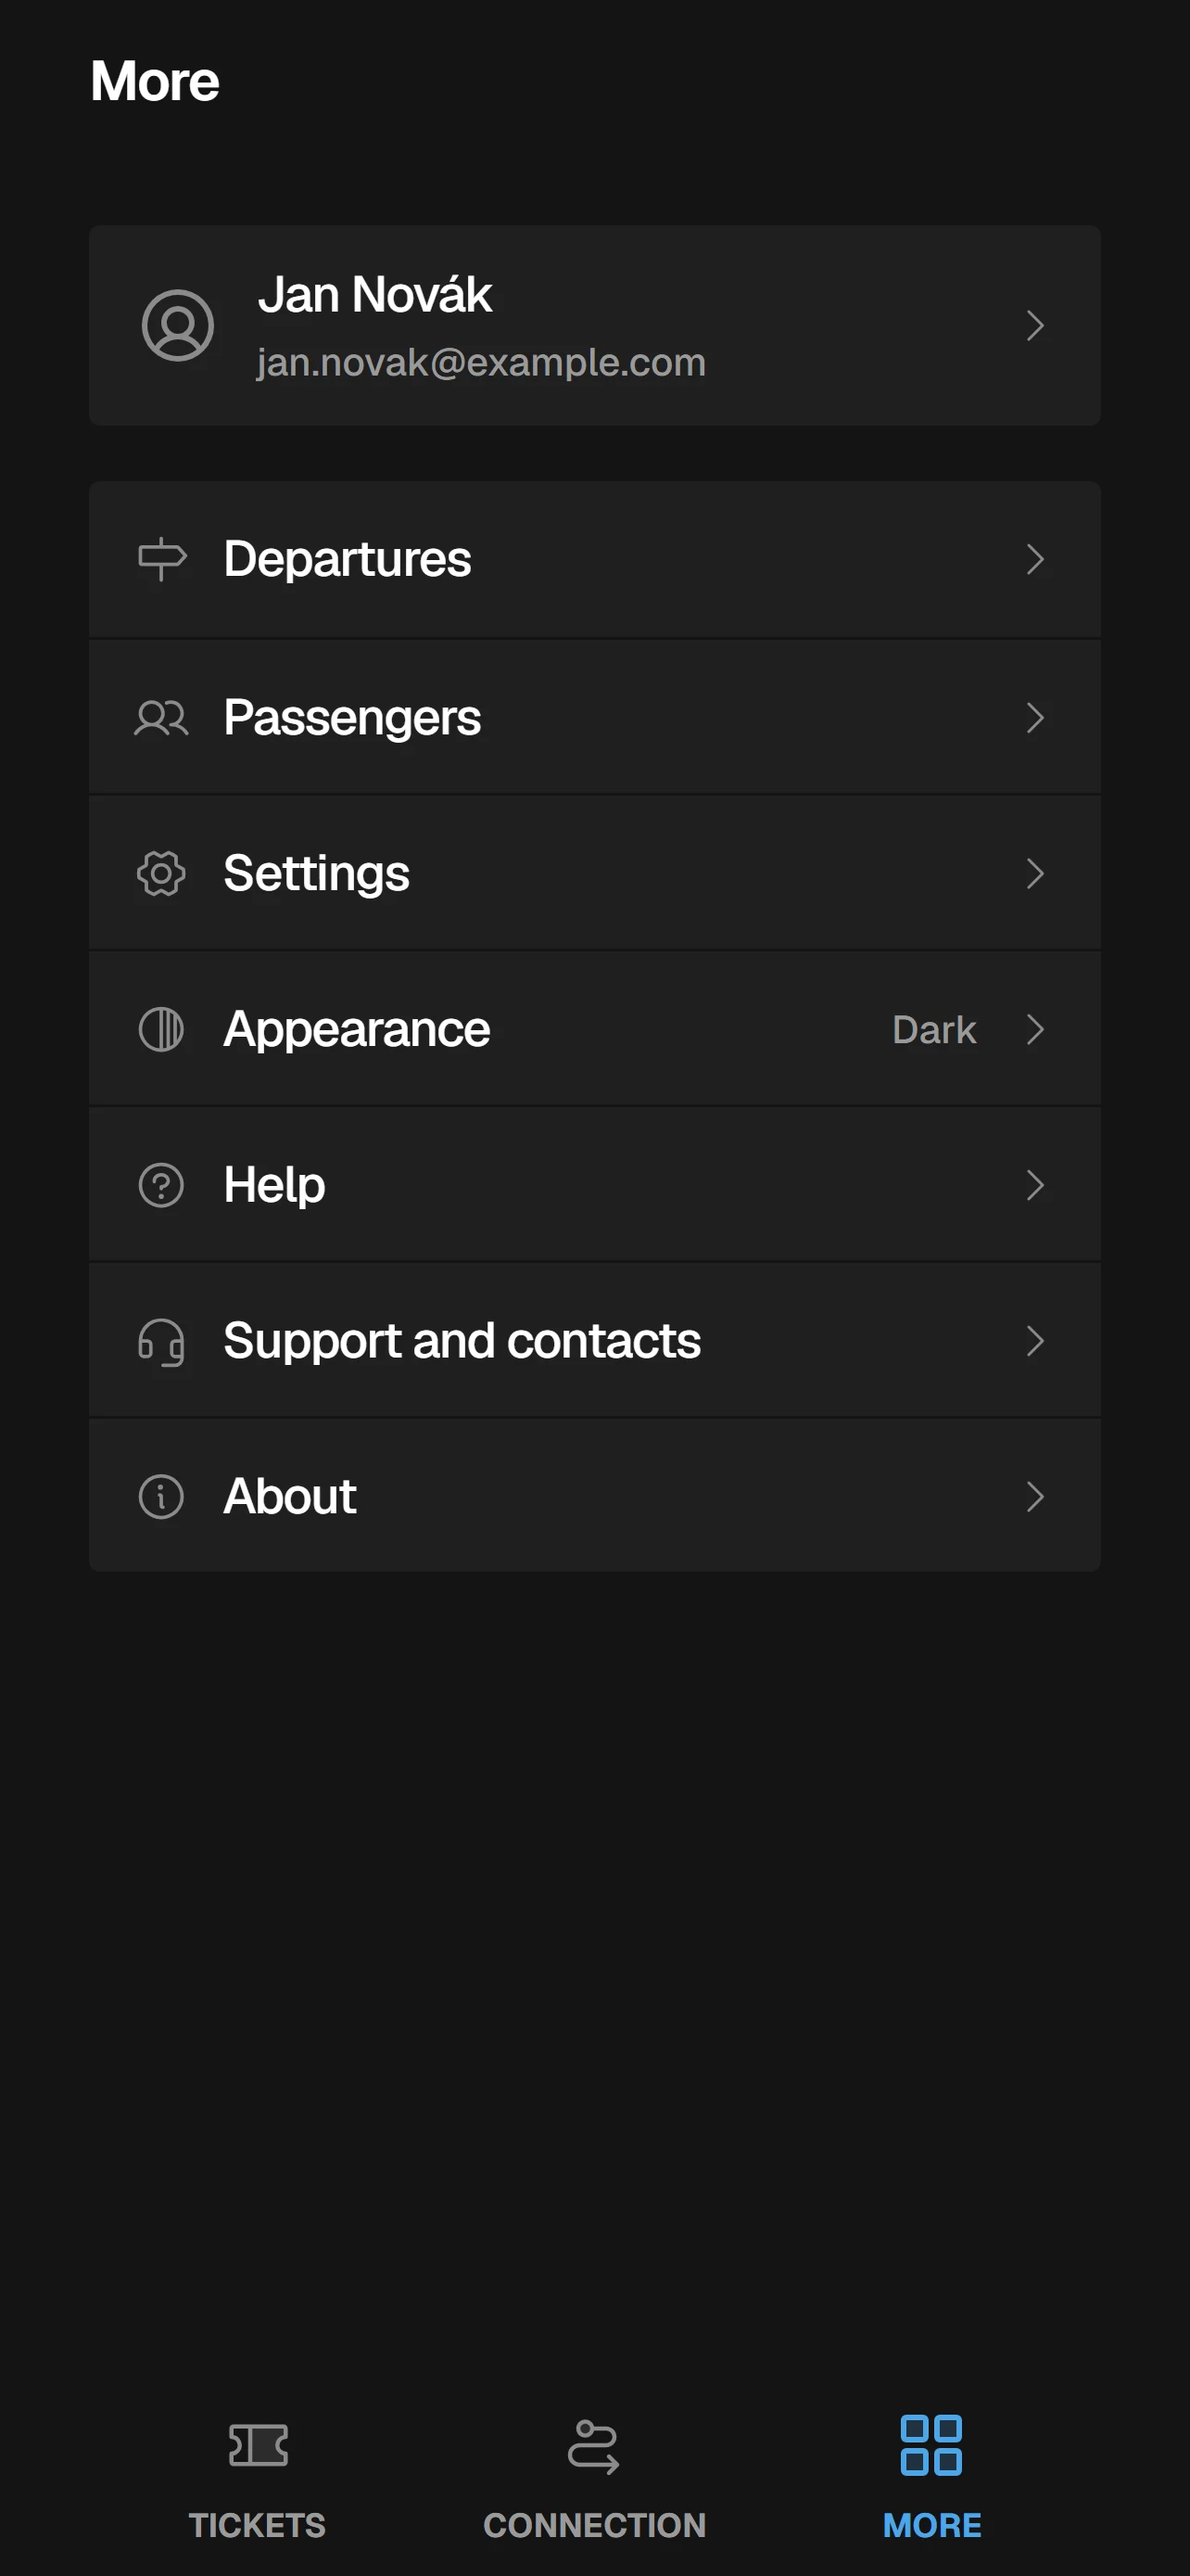
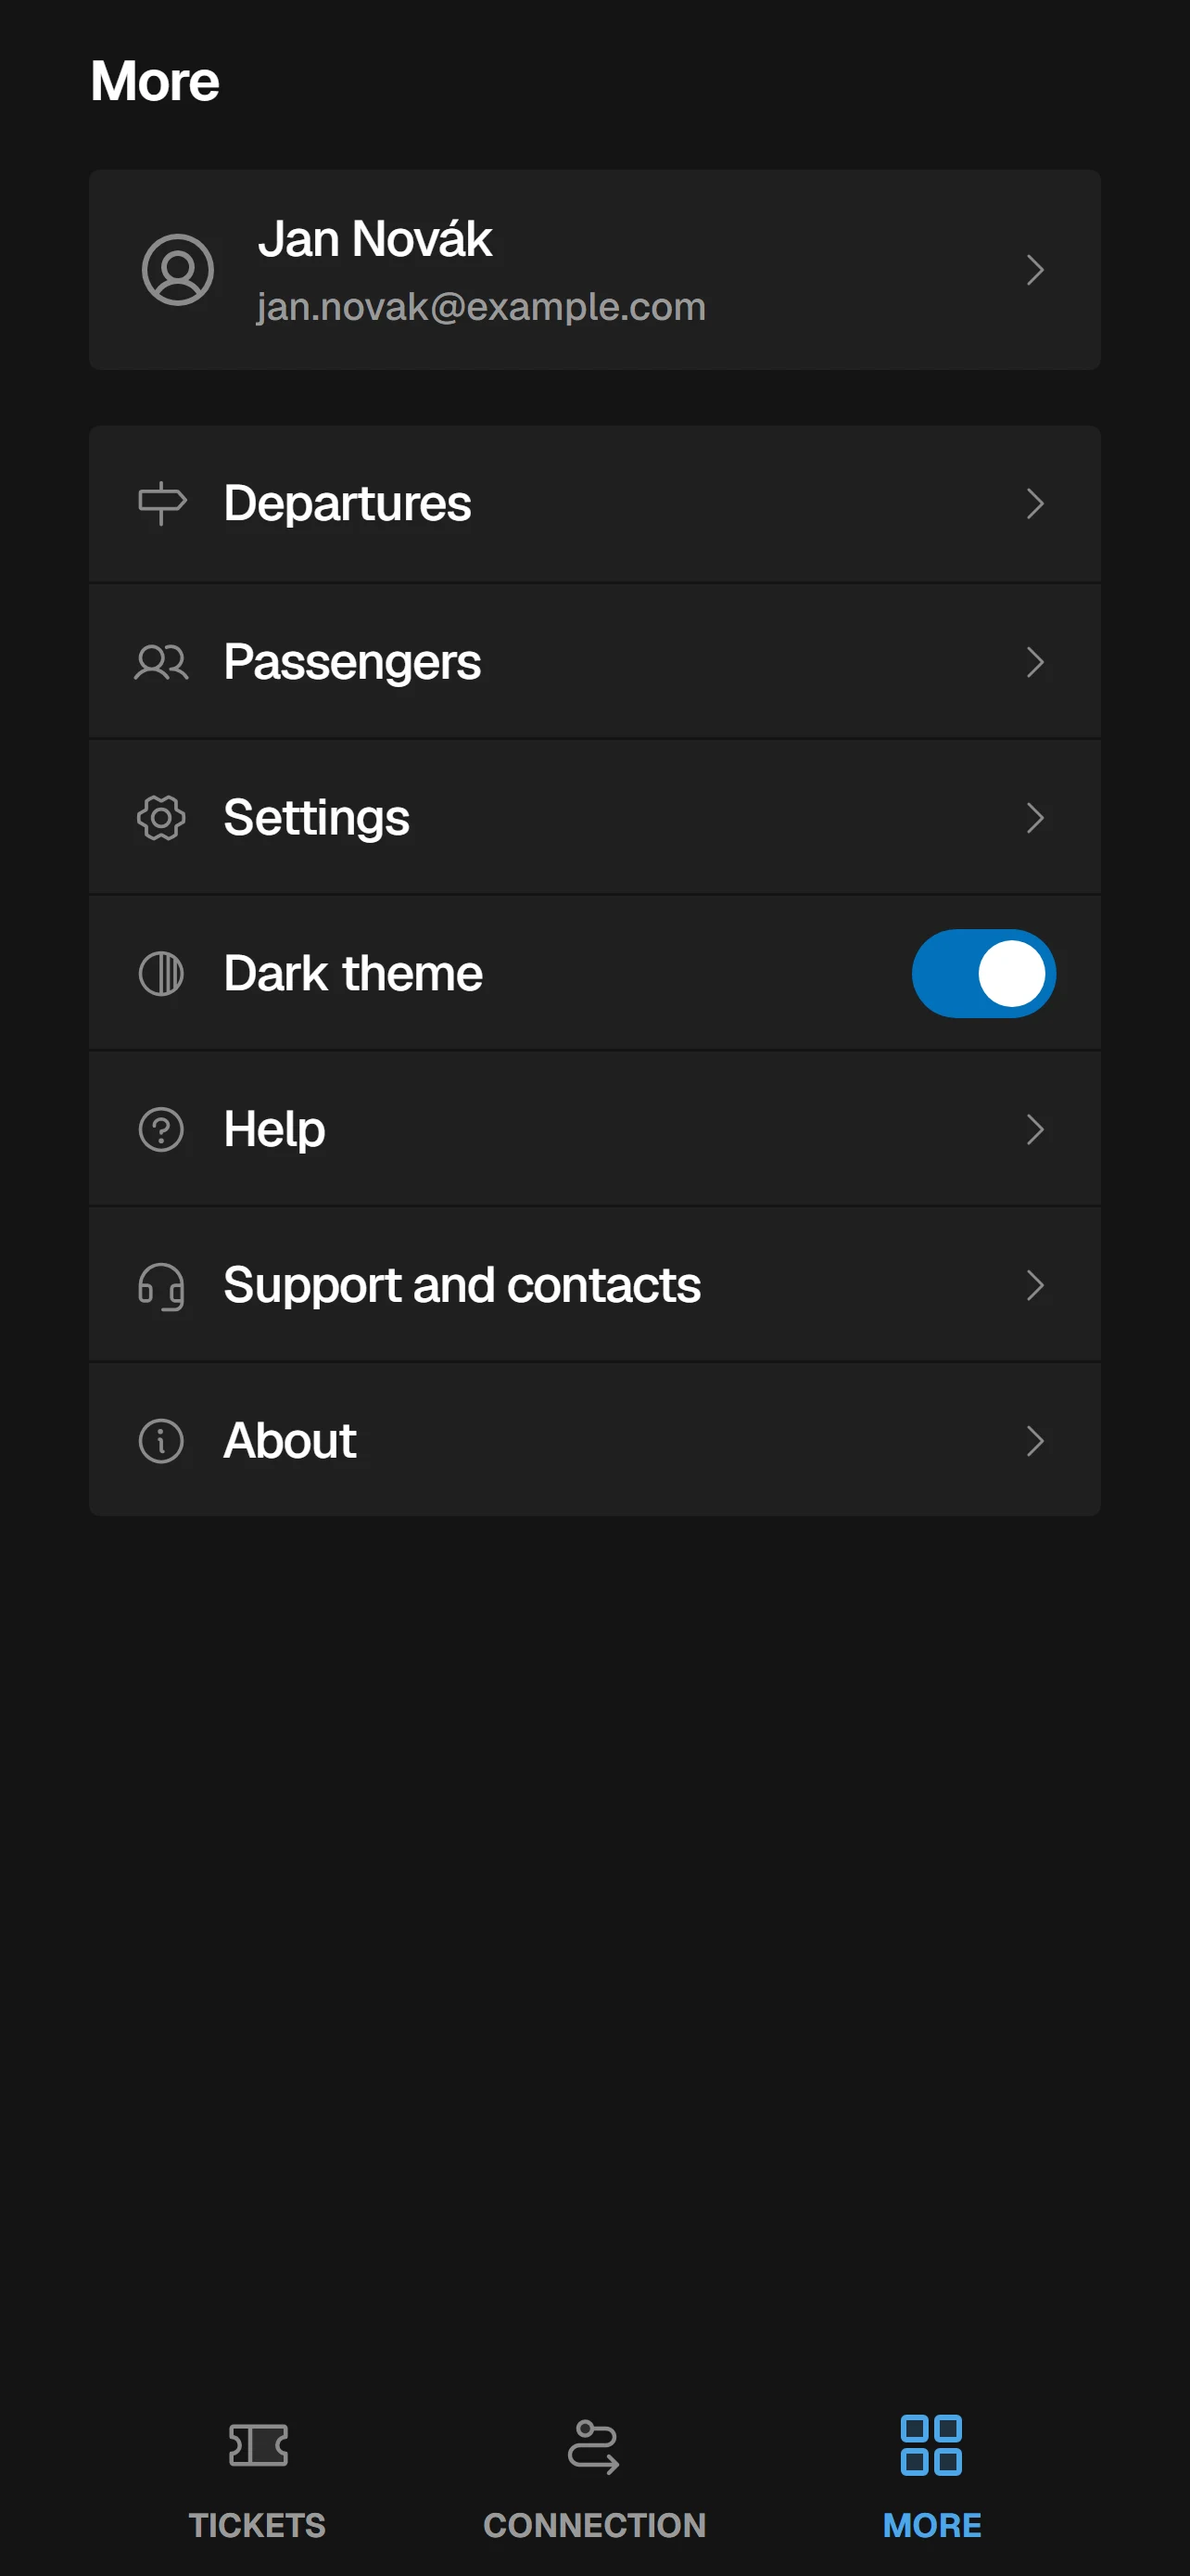
Dark theme as a switch in More, tighter More and Tickets header spacing
Claude-Session: https://claude.ai/code/session_01Y8Ue6eNGBhuYbYVaJqVueS

diff --git a/index.html b/index.html
@@ -333,7 +333,7 @@ p { margin: 0; }
    Rows are separated inside a group by border-subtle, groups by the 20px section gap. */
 .more { position: absolute; inset: 0; display: flex; flex-direction: column; background: var(--bg-canvas); }
 .more[hidden] { display: none; }
-.more-title { flex: none; height: 44px; margin: 17px var(--margin-content) 0; padding-bottom: var(--space-20); }
+.more-title { flex: none; height: 24px; margin: 17px var(--margin-content) 0; }
 .more-title h1 { margin: 0; font-weight: inherit; font-size: inherit; line-height: inherit; }
 .more-list { flex: 1; min-height: 0; overflow-y: auto; scrollbar-width: none; display: flex; flex-direction: column; gap: var(--gap-section); padding: var(--gap-section) var(--margin-content) var(--space-24); }
 .more-list::-webkit-scrollbar { display: none; }
@@ -412,8 +412,10 @@ p { margin: 0; }
 .sheet .row { padding: 0 var(--space-16); }
 .sheet .cancel .label { font-weight: 600; }
 .sheet .row .label { flex: 1; color: var(--text-primary); }
-.sheet .row .tick { color: var(--text-brand); opacity: 0; }
-.sheet .row[aria-checked="true"] .tick { opacity: 1; }
+.switch { flex: none; position: relative; width: 52px; height: 32px; margin-left: auto; border-radius: var(--radius-full); background: var(--icon-secondary); transition: background-color 0.2s ease; }
+.switch::after { content: ""; position: absolute; top: 4px; left: 4px; width: 24px; height: 24px; border-radius: var(--radius-full); background: var(--on-action); transition: transform 0.25s var(--ease-page); }
+[aria-checked="true"] > .switch { background: var(--action-primary); }
+[aria-checked="true"] > .switch::after { transform: translateX(20px); }
 
 .toast { position: absolute; left: 50%; bottom: var(--space-24); max-width: calc(100% - 2 * var(--margin-panel)); padding: var(--space-12) var(--space-16); border-radius: var(--radius-sm); background: var(--text-primary); color: var(--text-inverse); text-align: center; opacity: 0; visibility: hidden; transform: translate(-50%, 8px); transition: opacity 0.2s ease, transform 0.25s var(--ease-page), visibility 0s 0.25s; pointer-events: none; }
 .toast.is-on { opacity: 1; visibility: visible; transform: translate(-50%, 0); transition: opacity 0.2s ease, transform 0.25s var(--ease-page); }
@@ -462,7 +464,7 @@ p { margin: 0; }
 /* Reduced motion is honoured, except when the page is opened with ?motion=on (screen recordings on a machine
    that has system animations switched off). */
 @media (prefers-reduced-motion: reduce) {
-  :root:not(.motion-on) :is(.swap .ico, .pressable, .tab .frame .ico, .tab .t-nav, .chip, .track, .indicator, .segment, .row, .trip, .scrim, .sheet, .toast, .via, .via-toggle .ico, .icon-btn, .result, .later) { transition: none; }
+  :root:not(.motion-on) :is(.swap .ico, .pressable, .tab .frame .ico, .tab .t-nav, .chip, .track, .indicator, .segment, .row, .trip, .scrim, .sheet, .toast, .via, .via-toggle .ico, .icon-btn, .result, .later, .switch, .switch::after) { transition: none; }
   :root:not(.motion-on) .when.is-now { animation: none; }
 }
 </style>
@@ -550,7 +552,7 @@ p { margin: 0; }
             <button type="button" class="row"><span data-icon="regular:signpost" data-size="20"></span><span class="label t-row">Departures</span><span data-icon="regular:caret-right" data-size="16"></span></button>
             <button type="button" class="row"><span data-icon="regular:users" data-size="20"></span><span class="label t-row">Passengers</span><span data-icon="regular:caret-right" data-size="16"></span></button>
             <button type="button" class="row"><span data-icon="regular:gear-six" data-size="20"></span><span class="label t-row">Settings</span><span data-icon="regular:caret-right" data-size="16"></span></button>
-            <button type="button" class="row" id="themeRow" aria-haspopup="dialog"><span data-icon="regular:circle-half" data-size="20"></span><span class="label t-row">Appearance</span><span class="value t-row-meta" id="themeValue">System</span><span data-icon="regular:caret-right" data-size="16"></span></button>
+            <button type="button" class="row" id="themeSwitch" role="switch" aria-checked="false"><span data-icon="regular:circle-half" data-size="20"></span><span class="label t-row">Dark theme</span><span class="switch" aria-hidden="true"></span></button>
             <button type="button" class="row"><span data-icon="regular:question" data-size="20"></span><span class="label t-row">Help</span><span data-icon="regular:caret-right" data-size="16"></span></button>
             <button type="button" class="row"><span data-icon="regular:headset" data-size="20"></span><span class="label t-row">Support and contacts</span><span data-icon="regular:caret-right" data-size="16"></span></button>
             <button type="button" class="row"><span data-icon="regular:info" data-size="20"></span><span class="label t-row">About</span><span data-icon="regular:caret-right" data-size="16"></span></button>
@@ -596,15 +598,6 @@ p { margin: 0; }
         <div class="group"><button type="button" class="row cancel" data-act="cancel"><span class="label t-row">Cancel</span></button></div>
       </div>
 
-      <div class="sheet" id="themeSheet" role="dialog" aria-modal="true" aria-label="Appearance">
-        <div class="group" role="radiogroup" aria-label="Appearance">
-          <button type="button" class="row" role="radio" aria-checked="false" data-theme-set="system"><span class="label t-row">System</span><span data-icon="regular:check" data-size="20" data-cls="tick"></span></button>
-          <button type="button" class="row" role="radio" aria-checked="false" data-theme-set="light"><span class="label t-row">Light</span><span data-icon="regular:check" data-size="20" data-cls="tick"></span></button>
-          <button type="button" class="row" role="radio" aria-checked="false" data-theme-set="dark"><span class="label t-row">Dark</span><span data-icon="regular:check" data-size="20" data-cls="tick"></span></button>
-        </div>
-        <div class="group"><button type="button" class="row cancel" data-theme-set="cancel"><span class="label t-row">Cancel</span></button></div>
-      </div>
-
       <div class="toast t-row-meta" id="toast" role="status" aria-live="polite"></div>
     </div>
 
@@ -615,7 +608,7 @@ p { margin: 0; }
     </nav>
     <div class="home-zone"><span class="sys"></span></div>
   </div>
-  <!-- Build 11e29ce -->
+  <!-- Build 4ab694a -->
 </div>
 
 <script>
@@ -1450,51 +1443,25 @@ window.IDOS_TRIPS = (function () {
   })();
 
   // ══ Appearance ════════════════════════════════════════════════════════════════════════════════════════
-  // System (default), Light or Dark. The choice is kept in localStorage; with "System" only the CSS media query decides.
-  var THEME_NAME = { system: "System", light: "Light", dark: "Dark" };
-  var themeSheet = document.getElementById("themeSheet"), themeOpen = false;
-  function savedTheme() { try { var v = localStorage.getItem("idos-theme"); return v === "light" || v === "dark" ? v : "system"; } catch (e) { return "system"; } }
-  function syncThemeColor() {
+  // One switch in More. Until it is used the theme follows the system; from then on the choice is kept in localStorage.
+  var themeSwitch = document.getElementById("themeSwitch");
+  var darkMq = window.matchMedia ? matchMedia("(prefers-color-scheme: dark)") : null;
+  function isDark() { var a = document.documentElement.getAttribute("data-theme"); return a ? a === "dark" : !!(darkMq && darkMq.matches); }
+  function syncTheme() {
+    themeSwitch.setAttribute("aria-checked", isDark() ? "true" : "false");
     var c = getComputedStyle(document.querySelector(".device")).backgroundColor;
     Array.prototype.forEach.call(document.querySelectorAll('meta[name="theme-color"]'), function (m, i) {
       if (i === 0) { m.removeAttribute("media"); m.setAttribute("content", c); } else m.remove();
     });
   }
-  function applyTheme(t, save) {
-    var root = document.documentElement;
-    if (t === "system") root.removeAttribute("data-theme"); else root.setAttribute("data-theme", t);
-    if (save) { try { if (t === "system") localStorage.removeItem("idos-theme"); else localStorage.setItem("idos-theme", t); } catch (e) {} }
-    Array.prototype.forEach.call(themeSheet.querySelectorAll("[data-theme-set]"), function (b) { b.setAttribute("aria-checked", b.getAttribute("data-theme-set") === t ? "true" : "false"); });
-    document.getElementById("themeValue").textContent = THEME_NAME[t];
-    syncThemeColor();
-  }
-  function openTheme() {
-    if (themeOpen) return;
-    themeOpen = true;
-    morePage.inert = true;
-    scrimEl.classList.add("is-open"); themeSheet.classList.add("is-open");
-    (themeSheet.querySelector('[aria-checked="true"]') || themeSheet.querySelector(".row")).focus({ preventScroll: true });
-  }
-  function closeTheme(quiet) {
-    if (!themeOpen) return;
-    themeOpen = false;
-    morePage.inert = false;
-    scrimEl.classList.remove("is-open"); themeSheet.classList.remove("is-open");
-    if (!quiet) document.getElementById("themeRow").focus({ preventScroll: true });
-  }
-  applyTheme(/[?&]theme=(light|dark)\b/.test(location.search) ? document.documentElement.getAttribute("data-theme") : savedTheme(), false);
-  if (window.matchMedia) matchMedia("(prefers-color-scheme: dark)").addEventListener("change", function () { setTimeout(syncThemeColor, 0); });
-  document.getElementById("themeRow").addEventListener("click", openTheme);
-  themeSheet.addEventListener("click", function (e) {
-    var b = e.target.closest("[data-theme-set]");
-    if (!b) return;
-    var v = b.getAttribute("data-theme-set");
-    if (v !== "cancel") applyTheme(v, true);
-    closeTheme();
+  themeSwitch.addEventListener("click", function () {
+    var t = isDark() ? "light" : "dark";
+    document.documentElement.setAttribute("data-theme", t);
+    try { localStorage.setItem("idos-theme", t); } catch (e) {}
+    syncTheme();
   });
-  scrimEl.addEventListener("click", function () { closeTheme(); });
-  document.addEventListener("keydown", function (e) { if (e.key === "Escape" && themeOpen) { e.stopPropagation(); closeTheme(); } }, true);
-  Array.prototype.forEach.call(document.querySelectorAll(".tab"), function (tab) { tab.addEventListener("click", function () { closeTheme(true); }); });
+  if (darkMq) darkMq.addEventListener("change", function () { setTimeout(syncTheme, 0); });
+  syncTheme();
 
 })();
 </script>

diff --git a/compare.html b/compare.html
@@ -227,7 +227,7 @@ var SCREENS = [
   ["results", "Search results", "One white card per connection. Times, platforms and status share one grid, so options can be compared by eye."],
   ["trip", "Trip", "Every leg follows one pattern: line, direction, stops, status. Actions stay in one row under the back button."],
   ["trip-end", "Restrictions, carriers, fare", "Three plain sections instead of banded lists, all in the same two text sizes."],
-  ["more", "More", "Same entries, one line-icon style at one weight, and an Appearance switch for the dark theme."]
+  ["more", "More", "Same entries, one line-icon style at one weight, and a dark-theme switch right in the list."]
 ];
 var theme = (function () {
   var forced = /[?&]theme=(light|dark)\b/.exec(location.search);

diff --git a/sw.js b/sw.js
@@ -1,4 +1,4 @@
-const CACHE = "idos-11e29ce";
+const CACHE = "idos-4ab694a";
 const SHELL = ["./", "index.html", "manifest.webmanifest", "icons/icon-180.png", "icons/icon-192.png", "icons/icon-512.png"];
 
 self.addEventListener("install", e => {
